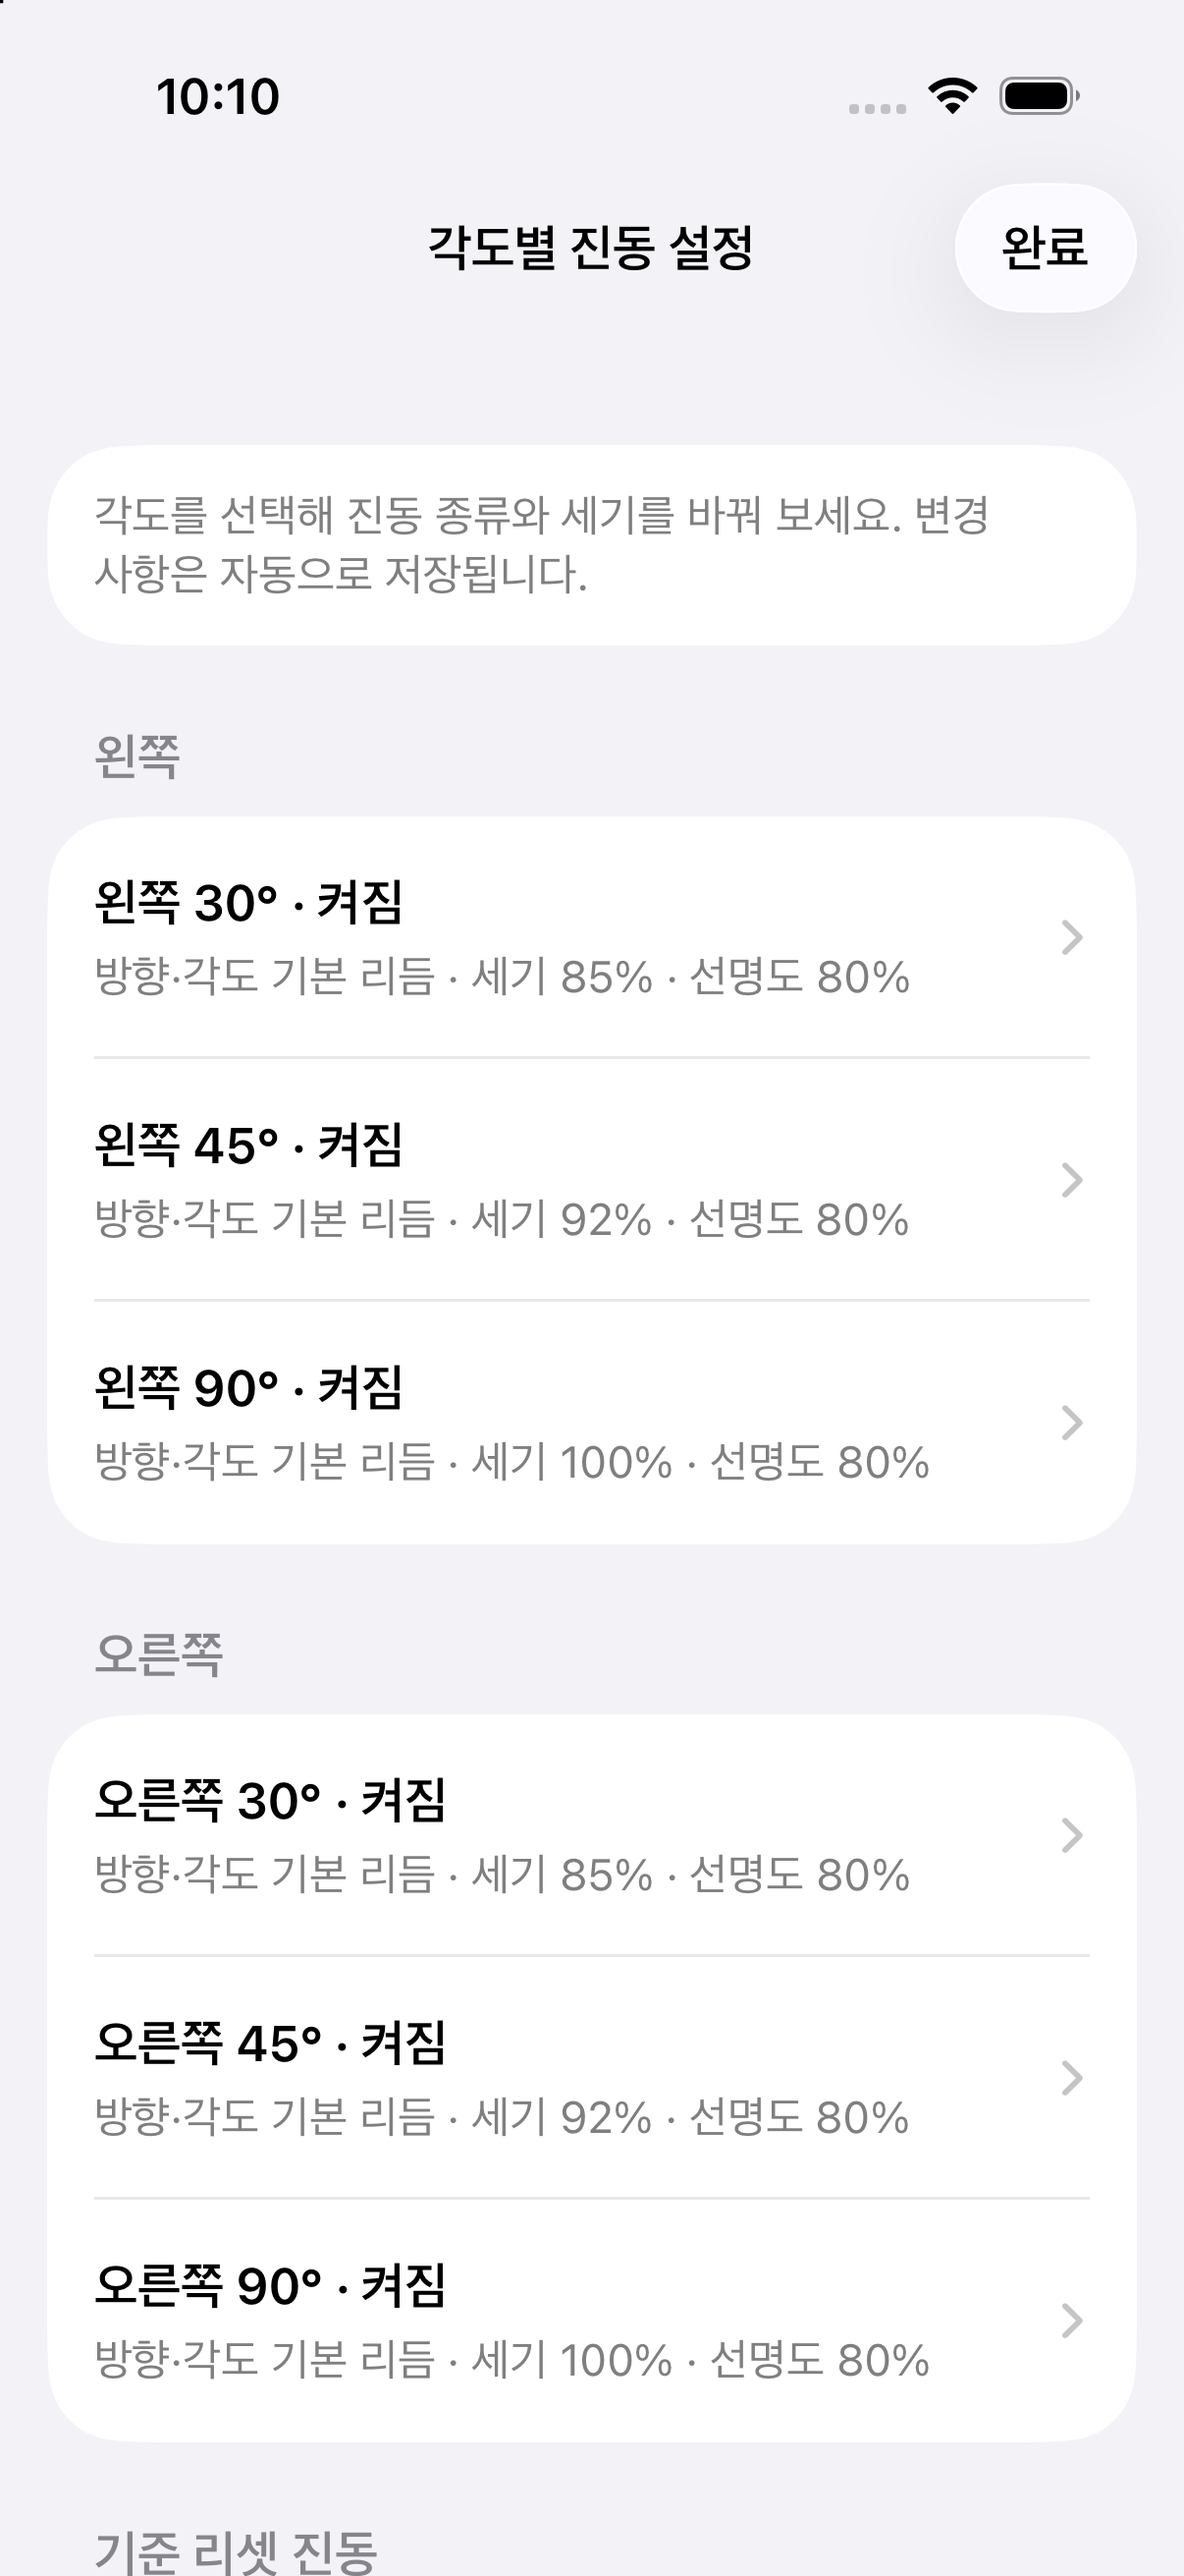
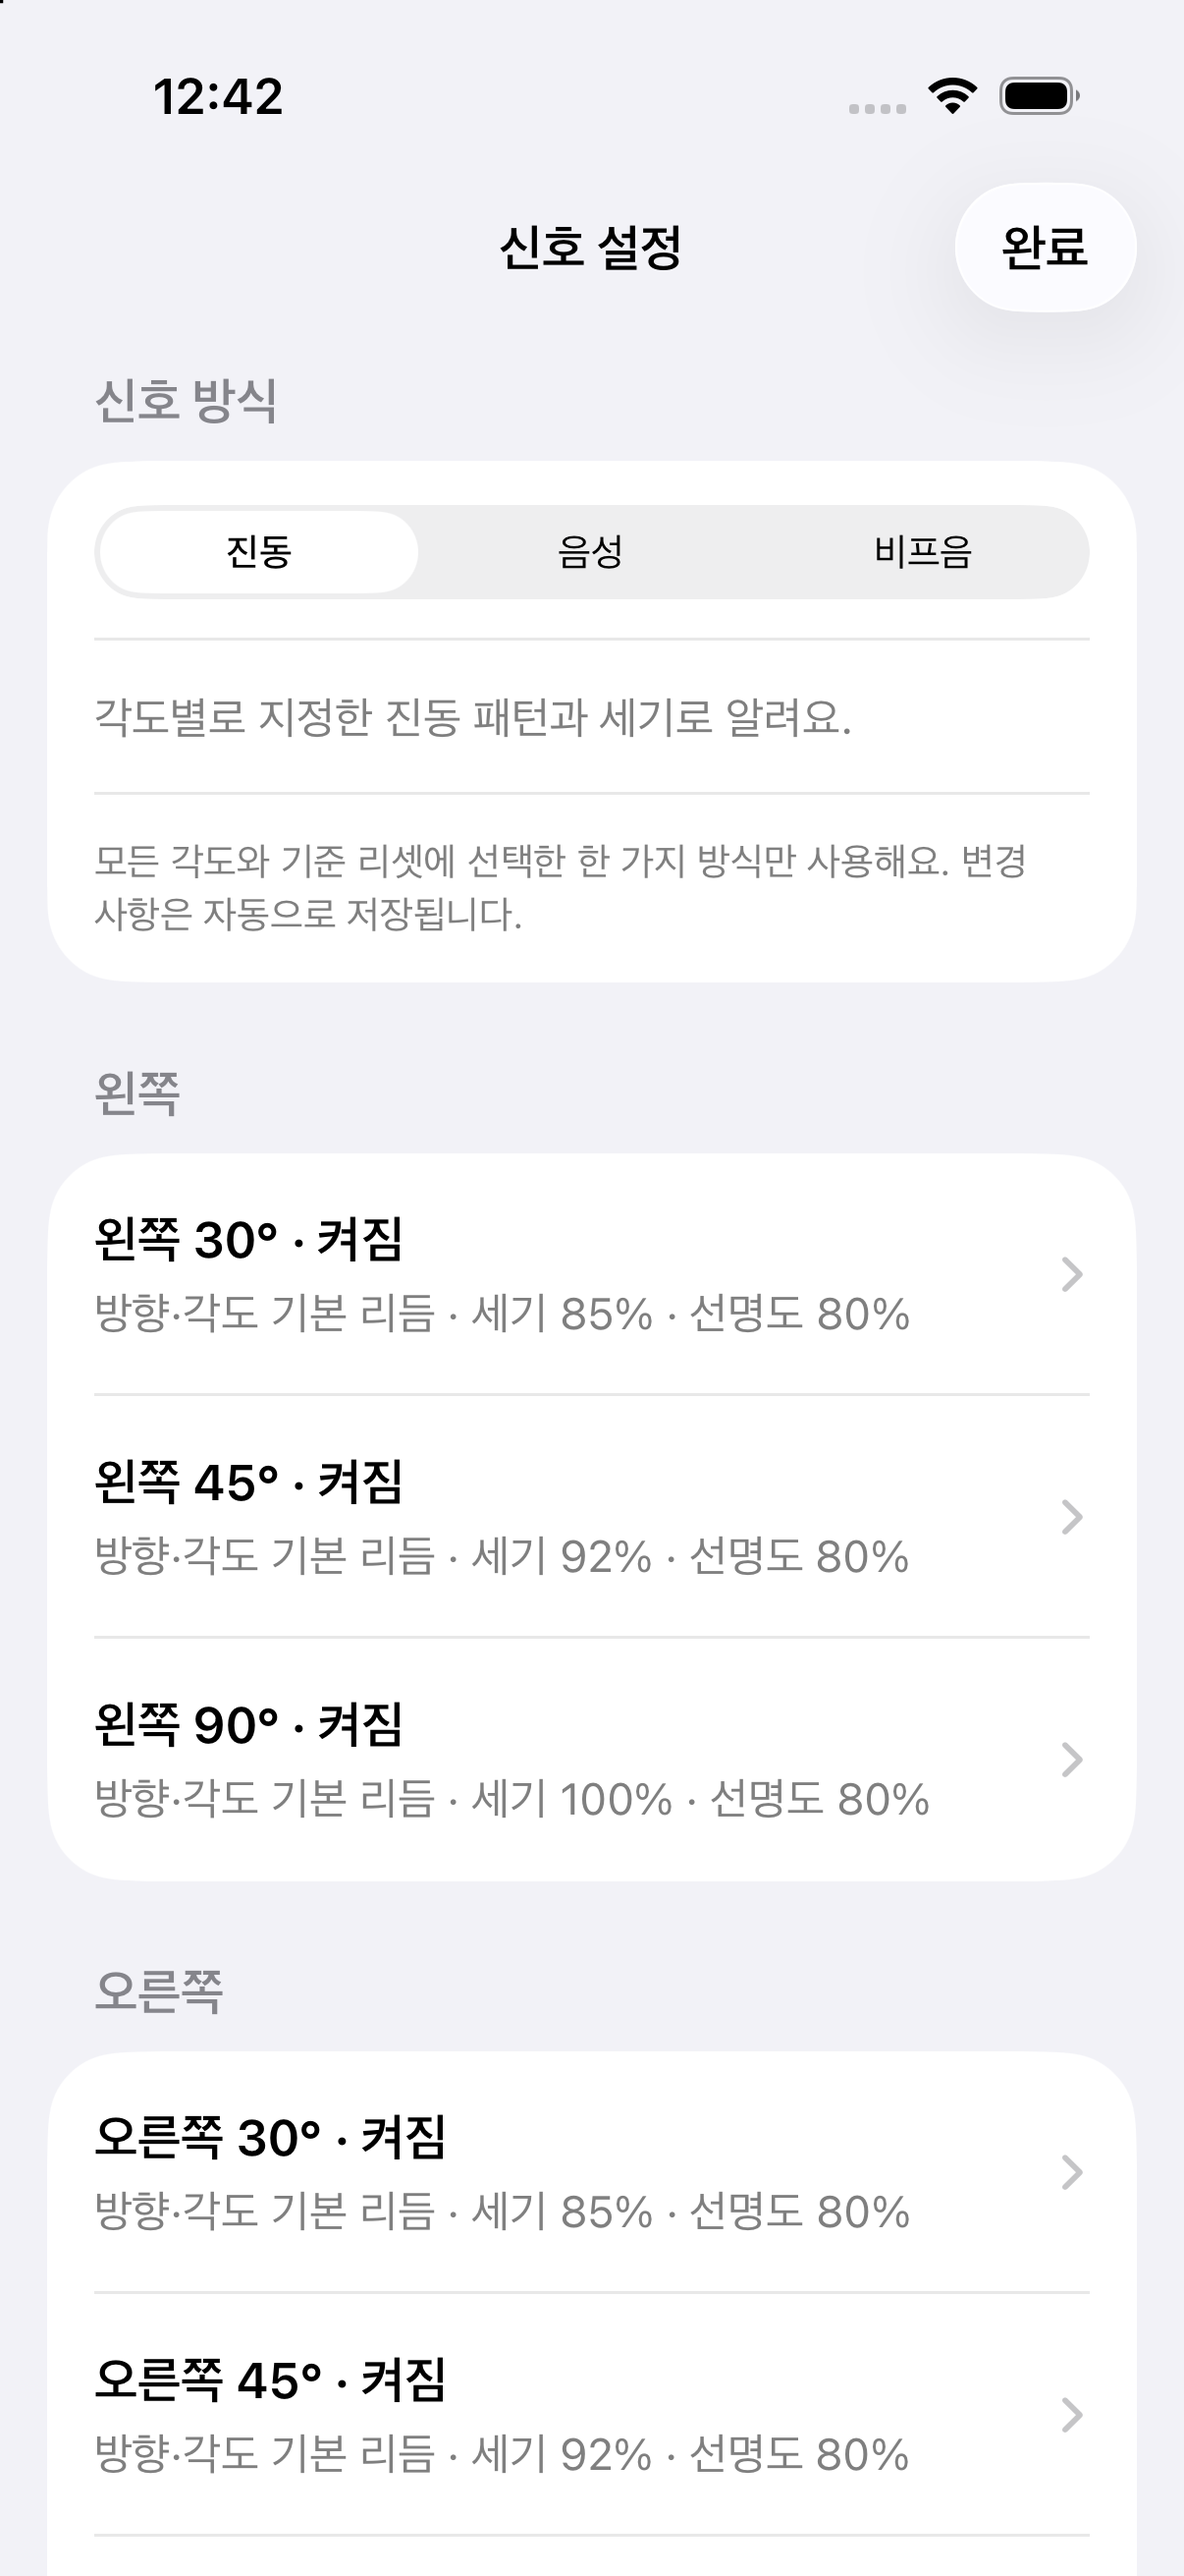
[docs] 음성 비프음 사용과 검증 절차 정리

diff --git a/README.md b/README.md
@@ -1,6 +1,6 @@
 # OrientationHapticsLab
 
-허리에 세로로 고정한 아이폰으로 **리셋한 방향에서 얼마나 회전했는지** 측정하고, 각도마다 다른 진동을 보내는 실험 앱입니다. 개발 중인 앱은 [`develop`](https://github.com/wsysangyoung2730-debug/2026-C6-A13-OrientationHapticsLab/tree/develop)에서 확인하세요.
+허리에 세로로 고정한 아이폰으로 **리셋한 방향에서 얼마나 회전했는지** 측정하고, 각도마다 진동·음성·비프음 중 선택한 신호를 보내는 실험 앱입니다. 개발 중인 앱은 [`develop`](https://github.com/wsysangyoung2730-debug/2026-C6-A13-OrientationHapticsLab/tree/develop)에서 확인하세요.
 
 ## 실행
 
@@ -17,12 +17,27 @@
 
 - 중력 기준 수평면에서 기기의 화면 정면 방향을 구해 상대 회전각 표시
 - 왼쪽은 음수, 오른쪽은 양수. UI에는 방향과 각도를 함께 표시
-- 좌우 30°·45°·90° 진입/통과 시 진동, 경계 흔들림 중 중복 방지
+- 좌우 30°·45°·90° 진입/통과 시 선택한 신호, 경계 흔들림 중 중복 방지
+- 신호 방식으로 진동·음성·비프음 중 하나를 선택하고 저장
 - 각도별 사용 여부, 진동 패턴, 세기, 선명도를 설정하고 저장
-- 진동 신호 재생 동안 각도별 단색 전체 화면과 큰 방향·각도 표시
+- 선택한 신호 재생 동안 각도별 단색 전체 화면과 큰 방향·각도 표시
 - 버튼 리셋 시 이전 사이클 로그 저장, 방향·걸음·추정 거리와 좌표 초기화
 - 걸음 수, 추정 이동 거리, 초기 방향 기준 전방/오른쪽 좌표 표시
-- 로그와 진동 이력 기기 내 저장 및 확인
+- 로그와 신호 이력 기기 내 저장 및 확인
+
+## 신호 방식 선택
+
+설정 상단의 **진동 / 음성 / 비프음**에서 한 가지를 선택합니다. 모든 각도 도달, 각도별 체험 버튼, 기준 리셋 완료에 적용됩니다. 앱을 다시 열어도 선택을 유지하며, 기존 진동 패턴 설정도 보존합니다.
+
+| 방식 | 각도 도달 | 리셋 완료 |
+| --- | --- | --- |
+| 진동 | 각도별로 저장한 패턴·세기·선명도 | 부드러운 긴 진동 두 번 |
+| 음성 | 한국어로 “왼쪽 30도”처럼 방향·각도 읽기 | “기준 방향을 0도로 설정했어요” |
+| 비프음 | 왼쪽 440Hz / 오른쪽 880Hz, 30° 1회 / 45° 2회 / 90° 3회 | 660Hz의 긴 소리 한 번 |
+
+소리 크기는 아이폰의 미디어 음량으로 조절합니다. 음량이 0이면 안내를 표시합니다. 무음 모드에서도 소리가 나며 연결된 이어폰이 있으면 현재 오디오 출력 경로를 사용합니다. 새로운 각도는 이전 신호를 중단하고 즉시 교체합니다. 앱 중단이나 이어폰 연결 해제 시 재생을 멈추며, 끝난 신호를 자동으로 다시 재생하지 않습니다.
+
+세 방식 모두 재생 중 전체 화면 색상 신호를 표시합니다. 시뮬레이터에서는 음성·비프음 재생을 시도할 수 있지만 진동은 화면 미리보기만 제공합니다. 실제 출력 음량, 음성 가용성, 공연장 소음 속 식별 가능성은 아이폰에서 확인해야 합니다.
 
 ## 화면 예시
 
@@ -63,7 +78,7 @@ xcodebuild -project OrientationHapticsLab.xcodeproj \
 터미널이 Command Line Tools를 선택한 Mac에서는 `DEVELOPER_DIR=/Applications/Xcode.app/Contents/Developer`를 설정하고 `xcrun swift`를 사용합니다.
 
 - 계산 테스트: 착용 방향·기울기, 좌우 부호, ±180° 경계, 각도 진입/통과·재진입, 지연된 걸음 자료, 사이클 분리, 로그 직렬화
-- 앱 테스트: 설정 저장·복원, 손상 데이터 처리, 이전 로그 보정·보존 (15개)
+- 앱 테스트: 설정 저장·복원, 기존 설정 호환, 신호 전환·중단, 음성 문구·비프음 파일, 이전 로그 보정·보존 (25개)
 - 자동 빌드: develop 대상 PR 및 develop 변경 시 GitHub Actions 실행
 - 현장 검증: [착용 검증 절차](docs/field-validation.md)
 - 브랜치와 커밋: [Git 작업 규칙](CONTRIBUTING.md)
@@ -73,7 +88,7 @@ xcodebuild -project OrientationHapticsLab.xcodeproj \
 2026-10-07 기준:
 
 - 방향·각도·걸음 계산 테스트 28개 통과
-- iOS 26.3 시뮬레이터에서 설정·로그 저장 테스트 15개 통과
+- iOS 26.3 시뮬레이터에서 설정·로그 저장·신호 전환·비프음 테스트 25개 통과
 - Xcode 27에서 iOS 26 최소 지원 설정으로 앱 빌드 성공
 - 설정 목록과 전체 화면 신호의 실제 렌더링 확인
 - 실제 아이폰의 허리 착용 오차, 진동 식별률, 보행 정확도는 **미측정**
@@ -81,7 +96,7 @@ xcodebuild -project OrientationHapticsLab.xcodeproj \
 ## 구현 구조
 
 - `Packages/OrientationCore`: 기기 API와 분리된 방향·각도 감지·걸음 추정·기록 모델
-- `OrientationHapticsLab`: Core Motion, Core Haptics, 저장소와 SwiftUI 화면
+- `OrientationHapticsLab`: Core Motion, Core Haptics, AVFoundation 음성·비프음, 저장소와 SwiftUI 화면
 - 센서의 측정 시각과 작업 세대를 검사해 오래된 콜백이 새 사이클을 변경하지 않도록 처리
 
 ## 참고
@@ -91,3 +106,6 @@ xcodebuild -project OrientationHapticsLab.xcodeproj \
 - [Apple: 처리된 기기 동작 데이터](https://developer.apple.com/documentation/coremotion/getting-processed-device-motion-data)
 - [Apple: Core Haptics](https://developer.apple.com/documentation/corehaptics)
 - [Apple: CMPedometer](https://developer.apple.com/documentation/coremotion/cmpedometer)
+
+- [Apple: AVSpeechSynthesizer](https://developer.apple.com/documentation/avfaudio/avspeechsynthesizer)
+- [Apple: 오디오 중단 처리](https://developer.apple.com/documentation/avfaudio/handling-audio-interruptions)

diff --git a/docs/field-validation.md b/docs/field-validation.md
@@ -6,9 +6,9 @@
 
 아이폰 모델 / iOS 버전 / 케이스 / 밴드 재질·조임 / 옷 두께 / 시험자 / 날짜를 기록합니다. 앱을 전면에 열어 화면을 켜고 배 앞쪽 허리에 세로 고정합니다. 화면은 바깥쪽입니다.
 
-## 1. 패턴 구분
+## 1. 신호 방식과 패턴 구분
 
-설정에서 좌우 30°·45°·90°를 각각 미리 재생합니다. 화면을 보지 않고 어떤 신호인지 응답하도록 한 뒤 순서를 바꿔 반복합니다. 식별 성공 횟수, 혼동한 조합, 너무 약하거나 불편한 패턴을 기록합니다. 세기뿐 아니라 패턴을 바꿔 비교합니다.
+설정에서 진동·음성·비프음을 하나씩 선택하고 좌우 30°·45°·90°를 각각 미리 재생합니다. 화면을 보지 않고 어떤 신호인지 응답하도록 한 뒤 순서를 바꿔 반복합니다. 식별 성공 횟수, 혼동한 조합, 너무 약하거나 불편한 패턴을 기록합니다. 진동은 세기뿐 아니라 패턴을 바꿔 비교합니다. 음성은 좌우와 각도 발음을 확인하고, 비프음은 낮은 음/높은 음 및 1·2·3회를 구분하는지 확인합니다. 음성·비프음은 실제 공연장 소음 및 사용할 이어폰 조건에서도 반복합니다.
 
 ## 2. 각도 검증
 
@@ -29,7 +29,10 @@
 
 ## 4. 화면·설정·중단
 
-- 각도별 진동 사용 여부와 패턴·세기·선명도를 변경하고 앱 재실행 후 유지되는지 확인합니다.
+- 신호 방식을 바꾸고 앱 재실행 후 유지되는지, 이전 진동 패턴이 보존되는지 확인합니다.
+- 미디어 음량 0/보통, 무음 모드, 스피커/이어폰 출력, 이어폰 연결 해제, 시스템 오디오 중단을 확인합니다.
+- 음성/비프음 체험과 리셋에서 진동이 동시에 나오지 않는지 확인합니다.
+- 각도별 신호 사용 여부와 패턴·세기·선명도를 변경하고 앱 재실행 후 유지되는지 확인합니다.
 - 해당 신호 재생 중 전체 화면이 단색이고 방향과 각도가 큰 글씨로 표시되는지 확인합니다.
 - 신호 종료·취소·새 신호·리셋·앱 중단 시 오래된 화면이 남지 않는지 확인합니다.
 - 동작 권한 거부, 화면 잠금, 앱 전환, 다시 실행을 확인합니다.
@@ -42,6 +45,8 @@
 | --- | --- | --- | --- |
 | 좌우 각도 오차 | 각도별 10회 | 미측정 | |
 | 진동 식별 | 패턴별 반복 | 미측정 | |
+| 음성 식별 | 각도별·스피커/이어폰 | 미측정 | |
+| 비프음 식별 | 좌우 음높이·1/2/3회 | 미측정 | |
 | 신호 누락·중복 | 정지·느린/빠른 회전 | 미측정 | |
 | 7걸음 인식 | 반복 사이클 | 미측정 | |
 | 추정 거리·좌표 | 전진/회전 구간 | 미측정 | |
